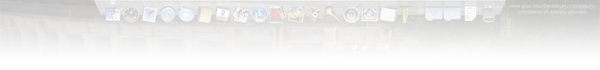
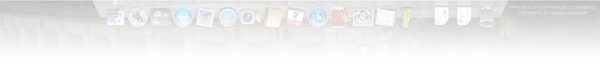
Screenshots for Blotter 2.0.

Changed region(s): [[0.18, 0.0857, 0.84, 0.3714], [0.81, 0.1143, 0.84, 0.1429], [0.78, 0.0857, 0.81, 0.1143]]

diff --git a/www/wp-content/themes/wireload-02/blotter-page.php b/www/wp-content/themes/wireload-02/blotter-page.php
@@ -71,10 +71,10 @@ Template Name: Blotter Page
 				    <img src="<?php echo_images_uri() ?>/blotter/blotter-calendar-on-leaf-ref.png" alt="Blotter calendar reflection." width="600" height="70" />
 					</li>
 					<li>
-					  <a href="<?php echo_images_uri() ?>/blotter/blotter-calendar-on-aurora-full.jpg">
-					    <img class="sliding" src="<?php echo_images_uri() ?>/blotter/blotter-calendar-on-aurora.jpg" alt="Blotter calendar with 'New Event' window." width="600" height="375" />
+					  <a href="<?php echo_images_uri() ?>/blotter/blotter-calendar-over-milkyway-full.jpg">
+					    <img class="sliding" src="<?php echo_images_uri() ?>/blotter/blotter-calendar-over-milkyway.jpg" alt="Blotter calendar with 'New Event' window." width="600" height="375" />
 					  </a>
-				    <img src="<?php echo_images_uri() ?>/blotter/blotter-calendar-on-aurora-ref.png" alt="Blotter calendar reflection." width="600" height="70" />
+				    <img src="<?php echo_images_uri() ?>/blotter/blotter-calendar-over-milkyway-ref.png" alt="Blotter calendar reflection." width="600" height="70" />
 					</li>
 					<li>
 					  <a href="<?php echo_images_uri() ?>/blotter/blotter-calendar-over-rome-full.jpg">
